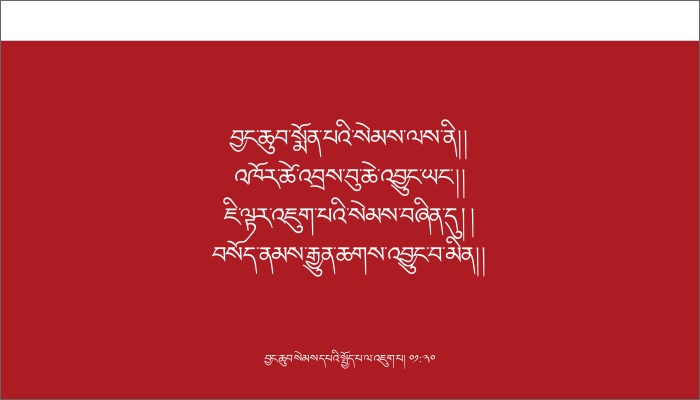
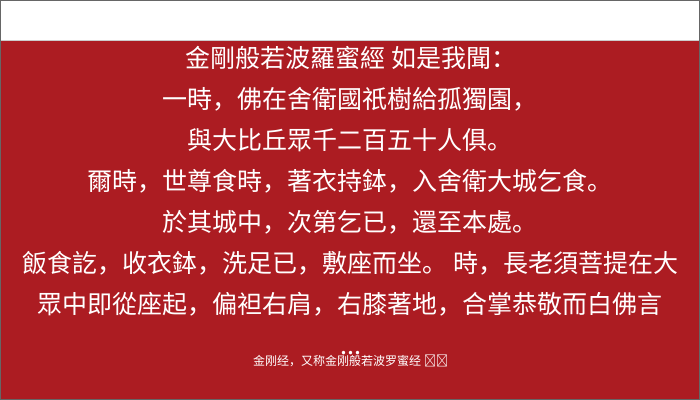
refactor: replace Pecha branding with Fodian across UI elements and localization files

diff --git a/static/js/NavSidebar.jsx b/static/js/NavSidebar.jsx
@@ -592,16 +592,16 @@ const StayConnected = () => { // TODO: remove? looks like we are not using this
       {/*<NewsletterSignUpForm context="sidebar" />*/}
 
       <a target="_blank" className="button small white appButton iconOnly" href={fbURL}>
-        <img src="/static/icons/facebook.svg" alt={Sefaria._("Pecha on Facebook")} />
+        <img src="/static/icons/facebook.svg" alt={Sefaria._("Fodian on Facebook")} />
       </a>
       <a target="_blank" className="button small white appButton iconOnly" href="https://x.com/pechadotorg">
-        <img src="/static/icons/twitter.svg" alt={Sefaria._("Pecha on Twitter")} />
+        <img src="/static/icons/twitter.svg" alt={Sefaria._("Fodian on Twitter")} />
       </a>
       <a target="_blank" className="button small white appButton iconOnly" href="https://www.instagram.com/pecha_org/">
-        <img src="/static/icons/instagram.svg" alt={Sefaria._("Pecha on Instagram")} />
+        <img src="/static/icons/instagram.svg" alt={Sefaria._("Fodian on Instagram")} />
       </a>
       <a target="_blank" className="button small white appButton iconOnly" href="https://www.youtube.com/channel/UCB1eWJqy97FBViE86l3Hf_g">
-        <img src="/static/icons/youtube.svg" alt={Sefaria._("Pecha on YouTube")} />
+        <img src="/static/icons/youtube.svg" alt={Sefaria._("Fodian on YouTube")} />
       </a>
 
     </Module>

diff --git a/static/js/VersionBlock/VersionInformation.jsx b/static/js/VersionBlock/VersionInformation.jsx
@@ -43,7 +43,7 @@ function VersionInformation({currentRef, version}) {
                 {`${Sefaria._("text.version.information.digitization")}: `}
               </span>
               <a className="versionDetailsLink" href="/digitized-by-pecha" target="_blank">
-                {Sefaria._("Pecha")}
+                {Sefaria._("Fodian")}
               </a>
             </div>
             <div className={classNames(VersionBlockUtils.makeAttrClassNames(version, {"versionLicense": 1, "versionDetailsElement": 1}, "license" ))}>

diff --git a/templates/email/base.html b/templates/email/base.html
@@ -17,7 +17,7 @@
 		{%  %}
             You're receiving this message because you have an account on
         {% %}
-            <a href="http://www.pecha.org">www.pecha.org</a>.
+            <a href="http://www.fodian.org">www.fodian.org</a>.
             <br>
         {%  with settings_url="/settings/account"|absolute_url %}
             To change your email settings, click <a href="{{ settings_url }}">here</a>

diff --git a/reader/views.py b/reader/views.py
@@ -1686,6 +1686,7 @@ def modify_bulk_text_api(request, title):
 @csrf_exempt
 def texts_api(request, tref):
     oref = Ref.instantiate_ref_with_legacy_parse_fallback(tref)
+    print(">>>>>>>>>>>>>>>>>>>>>>>>>>>>>>>>", tref, oref)
     tref = oref.url()
     if request.method == "GET":
         uref = oref.url()
@@ -3012,6 +3013,7 @@ def convert_tibetan_text_segment_number(input_string):
     return [tibetan_text, english_numerals]
 
 def get_name_completions(sting_name, limit, ref_only, topic_override=False):
+    print(">>>>>>>>>>>>>>>>>>>>>>>>>>>......",sting_name)
     name = sting_name
     lang = "he" if has_tibetan(name) else "en"        
     completer = library.ref_auto_completer(lang) if ref_only else library.full_auto_completer(lang)
@@ -3021,6 +3023,7 @@ def get_name_completions(sting_name, limit, ref_only, topic_override=False):
    
     
     if lang == "he":
+        print(">>>>>>>>>>>>>>>>>>>>>>>>>>>......",name)
         segment = convert_tibetan_text_segment_number(name)
         if segment[1]:
             enRef = Ref(segment[0])